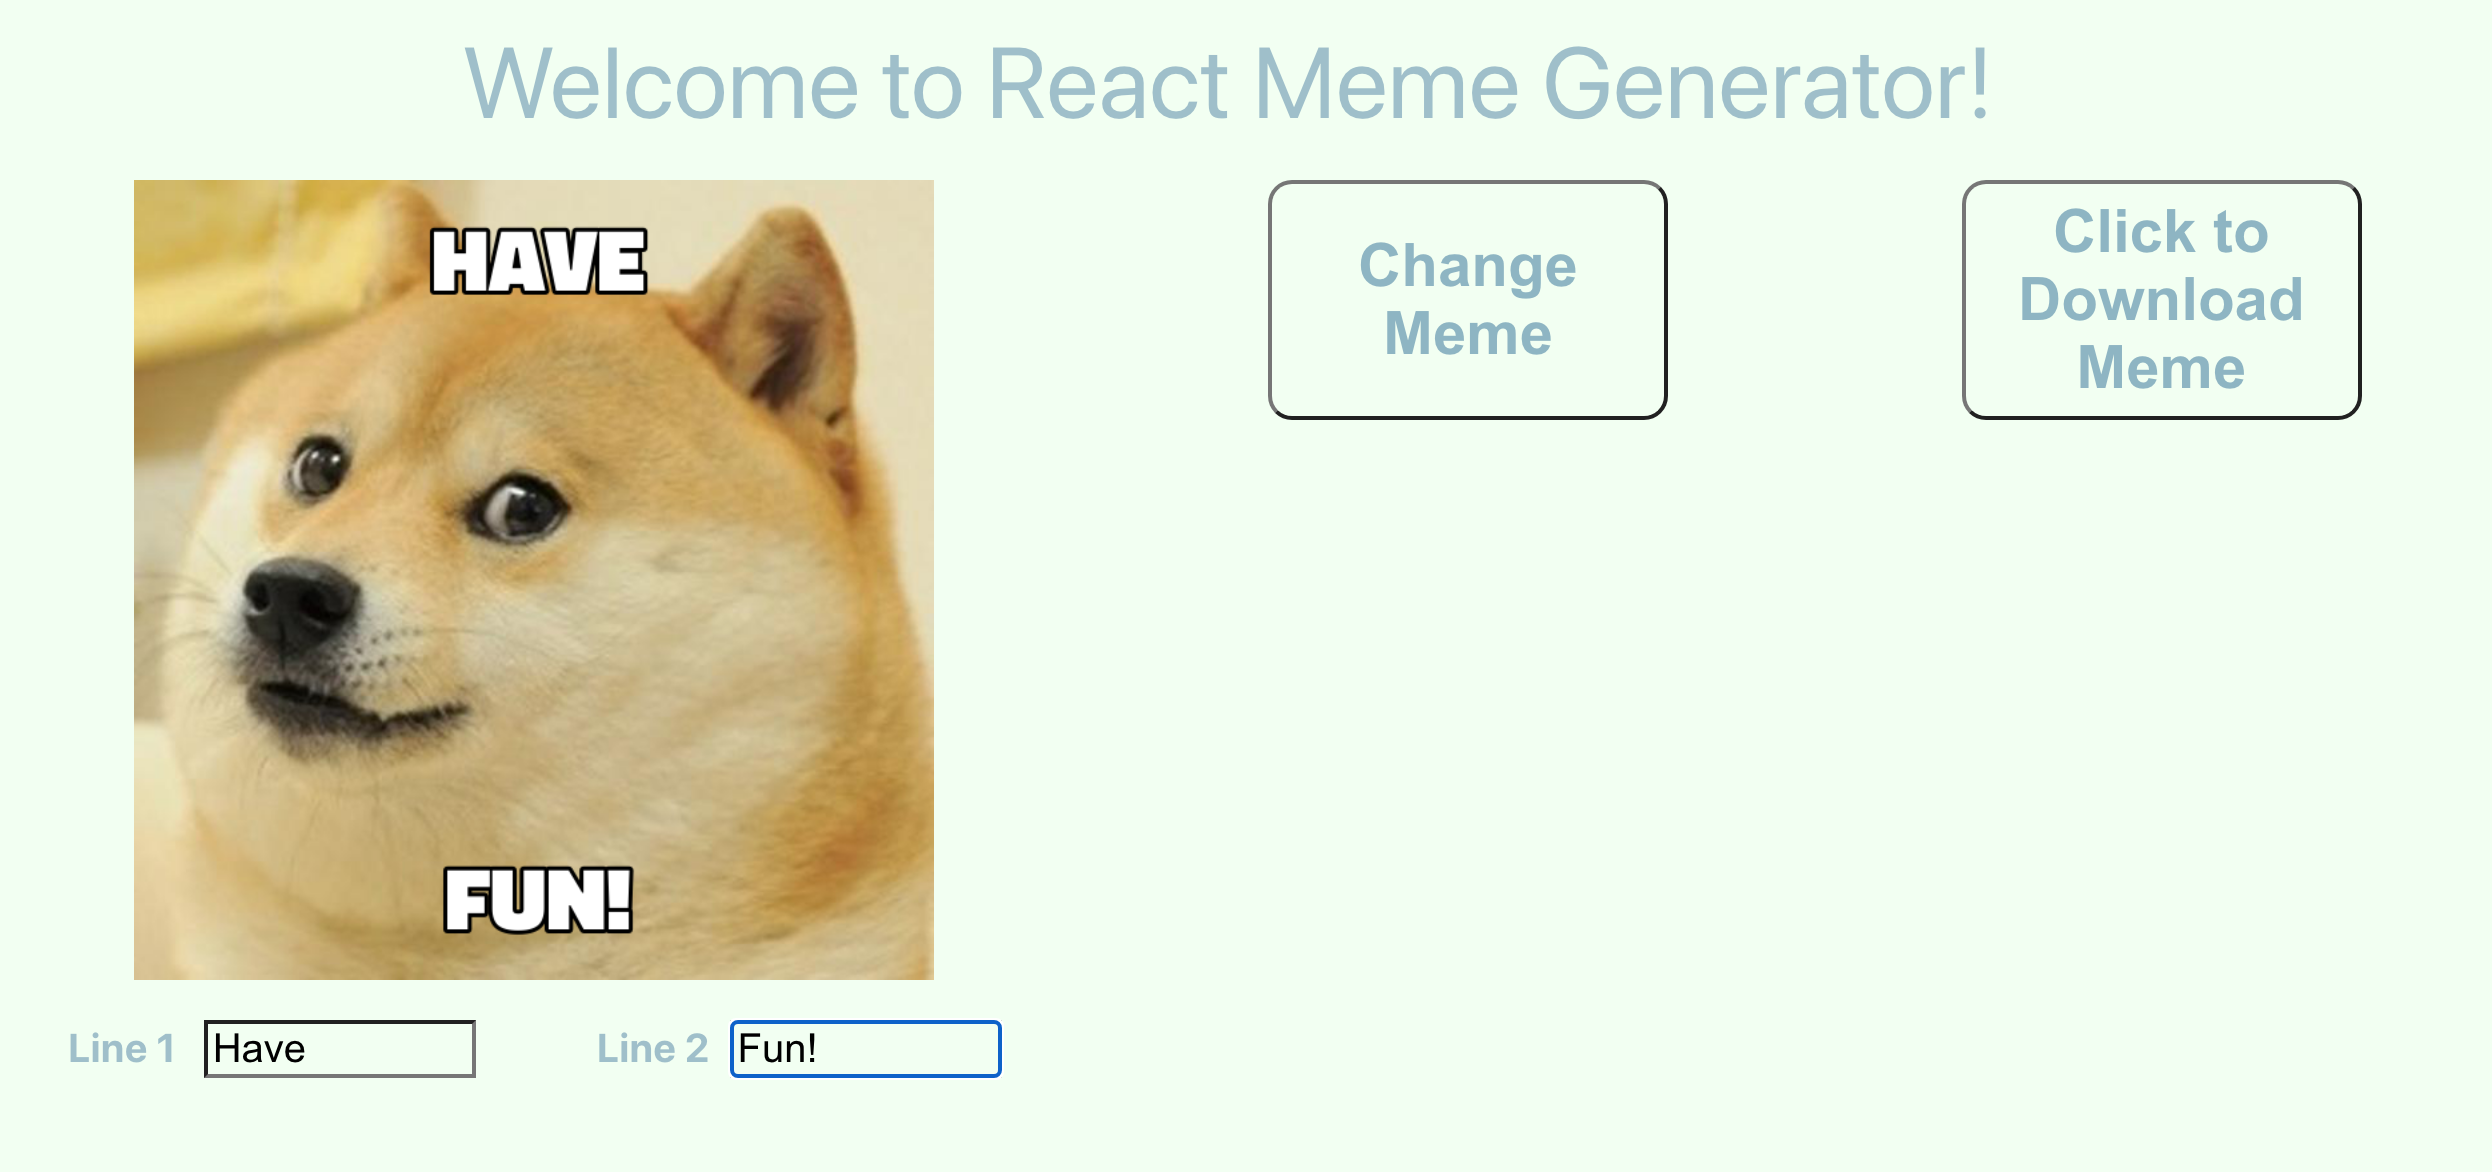
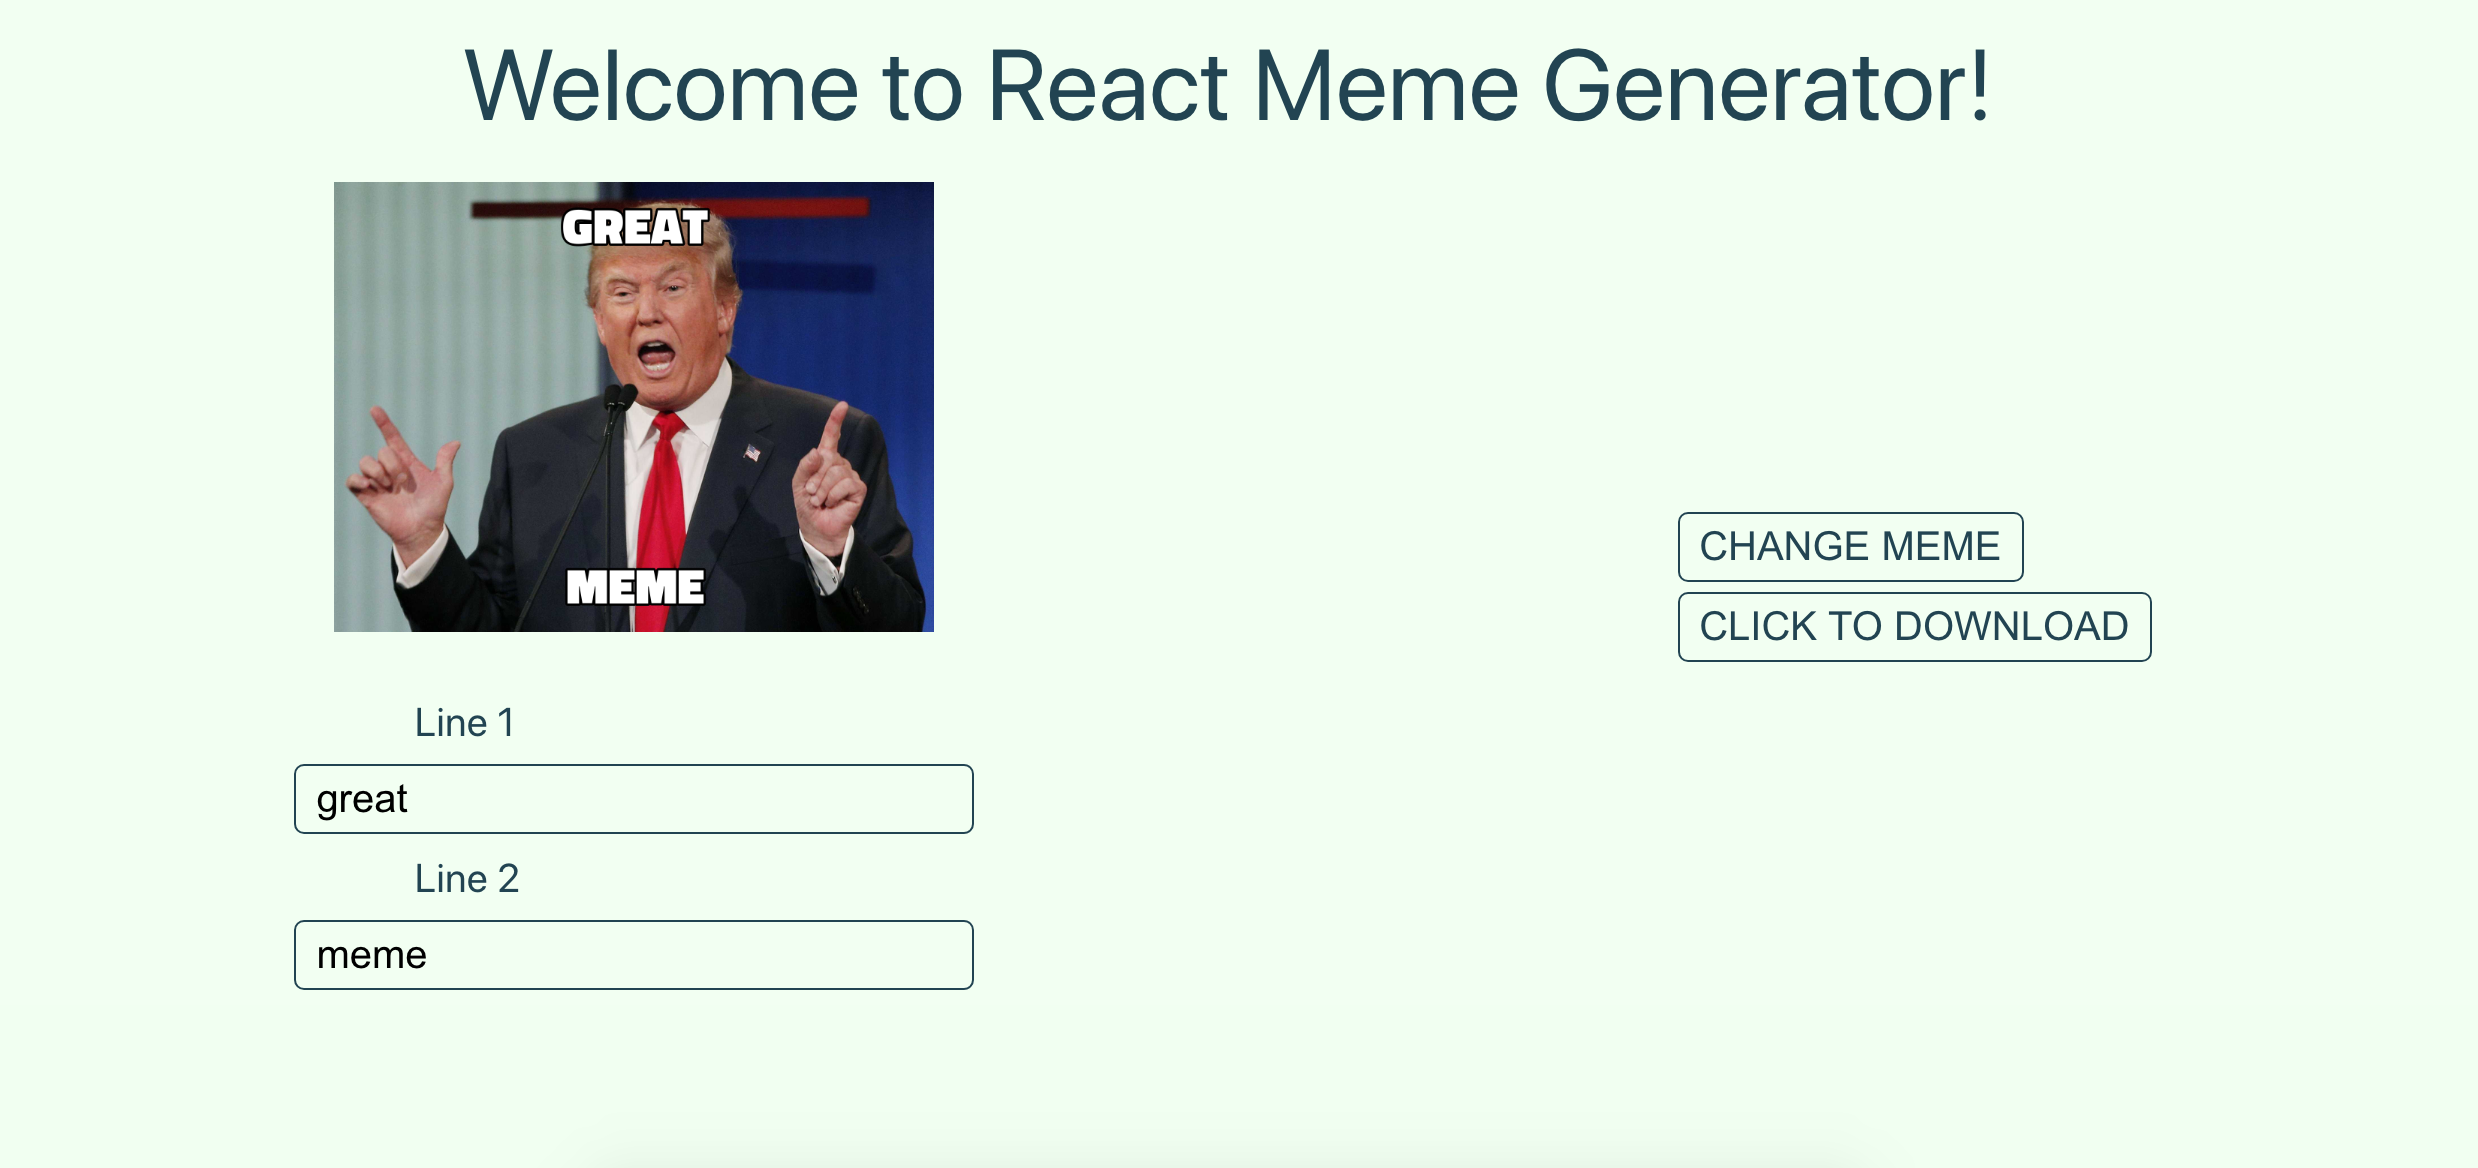
Remove unused packages installed

diff --git a/src/App.js b/src/App.js
@@ -54,29 +54,31 @@ function App() {
     <div className="react-root">
       <Header />
       <div className="content">
-        <img
-          src={
-            line1 || line2 ? `${image.slice(0, -4)}/${line1}/${line2}` : image
-          }
-          alt="meme"
-        />
-        <button onClick={handleChangeMeme}>Change Meme</button>
-        <button onClick={downloadMeme}>Click to Download Meme</button>
-      </div>
-      <div>
-        <div className="lines">
-          <label htmlFor="line1">Line 1 </label>
-          <input
-            id="line1"
-            value={line1}
-            onChange={(e) => setLine1(e.target.value)}
+        <div>
+          <img
+            src={
+              line1 || line2 ? `${image.slice(0, -4)}/${line1}/${line2}` : image
+            }
+            alt="meme"
           />
-          <label htmlFor="line2">Line 2</label>
-          <input
-            id="line2"
-            value={line2}
-            onChange={(e) => setLine2(e.target.value)}
-          />
+          <div className="lines">
+            <label htmlFor="line1">Line 1 </label>
+            <input
+              id="line1"
+              value={line1}
+              onChange={(e) => setLine1(e.target.value)}
+            />
+            <label htmlFor="line2">Line 2</label>
+            <input
+              id="line2"
+              value={line2}
+              onChange={(e) => setLine2(e.target.value)}
+            />
+          </div>
+        </div>
+        <div>
+          <button onClick={handleChangeMeme}>CHANGE MEME</button>
+          <button onClick={downloadMeme}>CLICK TO DOWNLOAD</button>
         </div>
       </div>
     </div>

diff --git a/src/App.css b/src/App.css
@@ -6,40 +6,53 @@
 }
 
 img {
-  max-width: 400px;
-  justify-content: center;
-  display: flex;
+  width: 200px;
   padding: 0px 20px 20px;
 }
 Header {
   text-align: center;
   font-size: 50px;
-  color: #9ebfcb;
+  color: #204452;
   font-style: bold;
   padding: 20px 30px;
 }
 input {
-  width: 10%;
   font-size: 20px;
+  border: 1px solid #204452;
+  border-radius: 5px;
+  padding: 5px 10px;
 }
 label {
   font-size: 20px;
-  font-weight: bold;
   padding: 10px 10px;
-  color: #9ebfcb;
+  color: #204452;
   margin-left: 50px;
 }
 .content {
   display: flex;
-  justify-content: space-around;
+  flex-direction: column-reverse;
+  align-items: center;
 }
-
+.lines {
+  display: flex;
+  flex-direction: column;
+}
 button {
-  height: 120px;
-  width: 200px;
   cursor: pointer;
-  border-radius: 12px;
-  font-size: 30px;
-  color: #8cb5c4;
-  font-weight: bold;
+  border-radius: 5px;
+  font-size: 20px;
+  color: #204452;
+  margin: 5px;
+  padding: 5px 10px;
+  display: block;
+  border: 1px solid #204452;
 }
+@media screen and (min-width: 768px) {
+  .content {
+    justify-content: space-around;
+    flex-direction: row;
+  }
+  img {
+    width: 300px;
+  }
+} ;
